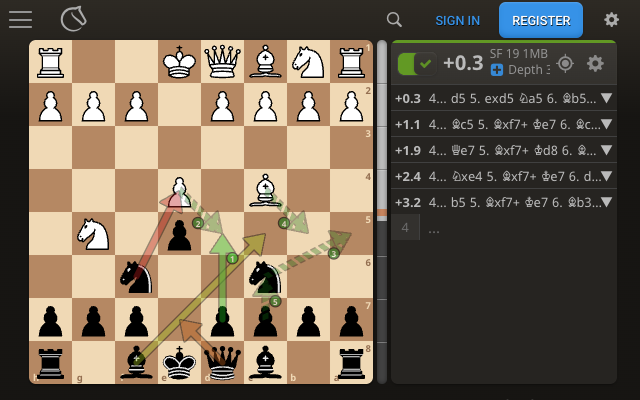
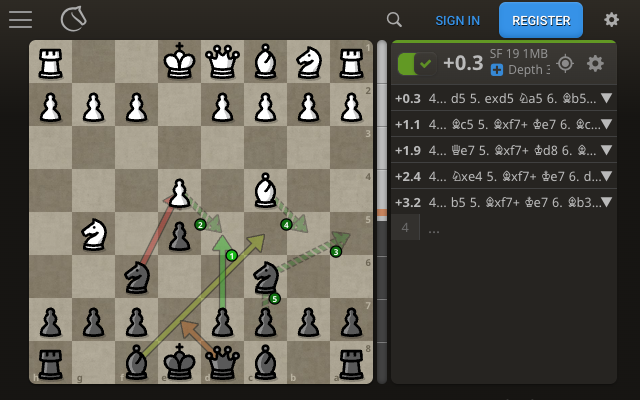
Retake the screenshots on the olive board, and show the newer features
The screenshots scripts/shoot.js takes, which the README shows, dated from
1.8.1: arrows drawn over the pieces, no played move, and lichess's default
brown board and cburnett pieces. They are retaken on 1.11.1's defaults, on the
olive board and caliente pieces the live-board store screenshots use. The
script sets both through the same preference endpoints lichess's settings
menu posts to, and stops if a page comes up without them; --board and
--pieces take other names.

Two shots are new. played-move loads the spread position as a game in which
4...Nxe4 was played with 4...d5 as a side line, so the played move is drawn
solid in place of its engine arrow. picked-line presses 3 in the same
position, so that line is drawn on its own in its own colour. The script can
now load a game at a given ply, press keys, and wait for a selector before
the picture is taken.

The fallback that runs src/ in the page now adds src/content.css as well.
Without it the picked row was never marked in the panel.

The README shows the two new shots in the shortcut and played-move sections,
says the options page covers more than colours and opacity, and lists the
screenshot commands. The store listing no longer calls the script's shots
outdated and lists the new ones.

diff --git a/scripts/shoot.js b/scripts/shoot.js
@@ -3,14 +3,19 @@
 // lichess board. Launches Chrome, drives it over the DevTools protocol, and
 // writes PNGs into store/screenshots/.
 //
-//   node scripts/shoot.js [--width 1280] [--height 800]
+//   node scripts/shoot.js [--width 1280] [--height 800] [--board olive] [--pieces caliente]
+//
+// The board and pieces are lichess's olive and caliente rather than its
+// default brown and cburnett, to match the screenshots taken on a live board.
+// They are set through the same preference endpoints lichess's own settings
+// menu posts to, and the script stops if a page comes up without them.
 //
 // Chrome 153 refuses --load-extension even with the guard feature switched
 // off, so the script checks whether the packaged extension injected and, if it
-// did not, runs src/logic.js and src/content.js in the page instead. That is
-// the same code the extension ships, with the same default settings, so the
-// picture matches what an installed copy draws. The script says which path it
-// took.
+// did not, runs src/logic.js and src/content.js in the page instead, with
+// src/content.css added as a stylesheet. That is the same code the extension
+// ships, with the same default settings, so the picture matches what an
+// installed copy draws. The script says which path it took.
 
 const { spawn } = require('node:child_process');
 const fs = require('node:fs');
@@ -24,17 +29,24 @@ const PORT = 9333;
 
 const arg = (name, fallback) => {
   const i = process.argv.indexOf(`--${name}`);
-  return i > -1 ? Number(process.argv[i + 1]) : fallback;
+  return i > -1 ? process.argv[i + 1] : fallback;
 };
-const WIDTH = arg('width', 1280);
-const HEIGHT = arg('height', 800);
+const WIDTH = Number(arg('width', 1280));
+const HEIGHT = Number(arg('height', 800));
+const BOARD = arg('board', 'olive');
+const PIECES = arg('pieces', 'caliente');
 
 const LINES = 5;
 
+const SPREAD = 'r1bqkb1r/pppp1ppp/2n2n2/4p1N1/2B1P3/8/PPPP1PPP/RNBQK2R b KQkq - 5 4';
+
+// A shot is a position, given as a FEN or as a game with the ply to stop at,
+// and optionally keys to press once the extension has coloured the board and
+// a selector that must then match before the picture is taken.
 const SHOTS = [
   {
     name: 'arrows-spread',
-    fen: 'r1bqkb1r/pppp1ppp/2n2n2/4p1N1/2B1P3/8/PPPP1PPP/RNBQK2R b KQkq - 5 4',
+    fen: SPREAD,
     note: 'moves differ a lot, so the colours spread green to red',
   },
   {
@@ -42,7 +54,28 @@ const SHOTS = [
     fen: 'rnbqkbnr/pppppppp/8/8/8/8/PPPPPPPP/RNBQKBNR w KQkq - 0 1',
     note: 'every move about equal, so nothing turns red',
   },
+  {
+    name: 'played-move',
+    // The spread position again, reached as a game with the engine's choice
+    // as a side line, so the tree branches after 4.Ng5 and 4...Nxe4, one of
+    // the engine's weaker lines, is the move that was played.
+    pgn: '1. e4 e5 2. Nf3 Nc6 3. Bc4 Nf6 4. Ng5 Nxe4 (4... d5)',
+    ply: 7,
+    expect: 'g[data-lac-played]',
+    note: 'the move played, ...Nxe4, as a solid black arrow in place of its engine arrow',
+  },
+  {
+    name: 'picked-line',
+    fen: SPREAD,
+    keys: ['3'],
+    expect: '.pv_box .pv[data-lac-picked]',
+    note: 'line 3 picked with its key, alone on the board in its own colour',
+  },
 ];
+
+const shotUrl = shot => shot.pgn
+  ? `https://lichess.org/analysis/pgn/${encodeURIComponent(shot.pgn)}#${shot.ply}`
+  : 'https://lichess.org/analysis/standard/' + shot.fen.replace(/ /g, '_');
 
 const sleep = ms => new Promise(r => setTimeout(r, ms));
 
@@ -64,6 +97,14 @@ async function cdp(ws, method, params = {}, sessionId) {
 const evaluate = (ws, session, expression) =>
   cdp(ws, 'Runtime.evaluate', { expression, awaitPromise: true, returnByValue: true }, session)
     .then(r => (r.exceptionDetails ? Promise.reject(new Error(r.exceptionDetails.text)) : r.result.value));
+
+// A key pressed as a keyboard would, so it reaches the page's own listeners.
+async function press(ws, key) {
+  const code = /^\d$/.test(key) ? `Digit${key}` : key;
+  const vk = key.length === 1 ? key.toUpperCase().charCodeAt(0) : 0;
+  await cdp(ws, 'Input.dispatchKeyEvent', { type: 'keyDown', key, code, text: key, windowsVirtualKeyCode: vk });
+  await cdp(ws, 'Input.dispatchKeyEvent', { type: 'keyUp', key, code, windowsVirtualKeyCode: vk });
+}
 
 async function main() {
   fs.mkdirSync(OUT, { recursive: true });
@@ -116,11 +157,32 @@ async function main() {
   const version = await cdp(ws, 'Browser.getVersion');
   console.log('chrome:', version.product);
 
+  // Board and pieces are account preferences, which lichess keeps in the
+  // session cookie when nobody is signed in. Post them the way its settings
+  // menu does, from a lichess page so the cookie is set.
+  await cdp(ws, 'Page.navigate', { url: 'https://lichess.org/analysis' });
+  await sleep(3000);
+  const prefs = await evaluate(ws, undefined, `(async () => {
+    const post = (url, body) => fetch(url, {
+      method: 'POST',
+      body: new URLSearchParams(body),
+      headers: { 'X-Requested-With': 'XMLHttpRequest' },
+    }).then(r => r.status);
+    return [await post('/pref/theme', { theme: ${JSON.stringify(BOARD)} }),
+      await post('/pref/pieceSet', { pieceSet: ${JSON.stringify(PIECES)} })];
+  })()`);
+  if (prefs.some(s => s !== 200)) throw new Error(`lichess refused the board or pieces (${prefs.join(', ')})`);
+  console.log(`board: ${BOARD}, pieces: ${PIECES}`);
+
   const written = [];
   for (const shot of SHOTS) {
-    const url = 'https://lichess.org/analysis/standard/' + shot.fen.replace(/ /g, '_');
-    await cdp(ws, 'Page.navigate', { url });
+    await cdp(ws, 'Page.navigate', { url: shotUrl(shot) });
     await sleep(6000);
+
+    const look = await evaluate(ws, undefined, `[document.body.dataset.board, document.body.dataset.pieceSet]`);
+    if (look[0] !== BOARD || look[1] !== PIECES) {
+      throw new Error(`${shot.name} came up with ${look.join(' and ')}, not ${BOARD} and ${PIECES}`);
+    }
 
     // Turn the engine on if the stored preference did not do it.
     await evaluate(ws, undefined, `(() => {
@@ -149,6 +211,12 @@ async function main() {
         console.warn('! packaged extension did not inject; running src/ directly');
         main.warned = true;
       }
+      const css = fs.readFileSync(path.join(ROOT, 'src/content.css'), 'utf8');
+      await evaluate(ws, undefined, `(() => {
+        const style = document.createElement('style');
+        style.textContent = ${JSON.stringify(css)};
+        document.head.appendChild(style);
+      })()`);
       for (const f of ['src/logic.js', 'src/content.js']) {
         await evaluate(ws, undefined, fs.readFileSync(path.join(ROOT, f), 'utf8'));
       }
@@ -158,6 +226,17 @@ async function main() {
     }
     if (!coloured) throw new Error(`no coloured arrows for ${shot.name} (${arrows} arrows drawn)`);
     await sleep(1200);
+
+    for (const key of shot.keys || []) await press(ws, key);
+    if (shot.expect) {
+      let found = false;
+      for (let i = 0; i < 20 && !found; i++) {
+        found = await evaluate(ws, undefined, `!!document.querySelector(${JSON.stringify(shot.expect)})`);
+        if (!found) await sleep(250);
+      }
+      if (!found) throw new Error(`${shot.name}: nothing matched ${shot.expect}`);
+      await sleep(800);
+    }
 
     const { data } = await cdp(ws, 'Page.captureScreenshot', { format: 'png', captureBeyondViewport: false });
     const file = path.join(OUT, `${shot.name}-${WIDTH}x${HEIGHT}.png`);

diff --git a/README.md b/README.md
@@ -8,7 +8,8 @@ from the alternatives at a glance.
 
 Black to move. The engine's best move is green, and the arrows shade through
 yellow and orange to red as the moves get worse. The striped green arrows are
-the rest of the best line, which lichess does not draw at all.
+the rest of the best line, which lichess does not draw at all, numbered in the
+order they are played. Every arrow is drawn behind the pieces.
 
 Lichess draws the best line in pale blue and every other multi-PV line in the
 same pale grey, so with 3 to 5 lines enabled you cannot tell which grey arrow
@@ -134,6 +135,12 @@ the moves after it striped and numbered, in the line's own colour. The row is
 marked in the panel. Press the same number again, or **Escape**, to let it go,
 and the board goes back to all its arrows.
 
+![Engine line 3 picked with the 3 key, drawn on its own in orange](store/screenshots/picked-line-1280x800.png)
+
+Line 3 picked in the position from the top of this page: 4...Qe7 and the four
+moves after it, numbered 1 to 5 in the line's own orange, with its row marked
+in the panel.
+
 **Space** plays the picked line's first move, through the same code lichess
 runs when a line is clicked, so the move lands in the game exactly as a click
 would put it. With no line picked, Space is left to lichess, where it plays
@@ -160,6 +167,13 @@ so a black arrow still shows on a dark square. Lichess's faint arrow goes. If
 the played move is one of the engine's other lines, its engine arrow gives way
 to the played one too, so a white or black arrow always means the move that
 was played; how good it was is still in the panel.
+
+![The move played, 4...Nxe4, as a solid black arrow among the engine's arrows](store/screenshots/played-move-1280x800.png)
+
+The position from the top of this page, loaded as a game in which Black played
+4...Nxe4, with the engine's choice, 4...d5, as a side line. The black arrow is
+the move played. It is also the engine's fourth line, whose red arrow gives
+way to it, while 4...d5 and the rest of its line are still green and numbered.
 
 Where the engine agrees with the move that was played, its green arrow already
 says so and nothing is added. Positions where the game does not branch, and
@@ -213,8 +227,9 @@ left as lichess shows them. It can be turned off on the options page.
 4. Open any lichess analysis board, turn the engine on, and set
    **Multiple lines** to 2 or more in the engine settings (gear icon).
 
-Colours and opacity can be changed from the extension's options page
-(right-click the extension icon, then **Options**). Changes apply live.
+Colours, widths, the outline and opacity are set on the extension's options
+page (right-click the extension icon, then **Options**), where most of the
+features above can also be switched off. Changes apply live.
 
 The extension collects no data. See [PRIVACY.md](PRIVACY.md).
 
@@ -394,7 +409,16 @@ The extension collects no data. See [PRIVACY.md](PRIVACY.md).
 ```bash
 npm test          # unit tests for the pure ranking logic (node --test)
 npm run icons     # regenerate icons/*.png
+node scripts/shoot.js                           # retake the 1280x800 screenshots
+node scripts/shoot.js --width 640 --height 400  # and the 640x400 ones
 ```
 
 `src/logic.js` is dependency-free and runs both in the browser and under Node.
 `src/content.js` holds the DOM glue. Nothing needs building.
+
+The screenshots in this README come from `scripts/shoot.js`, which opens real
+lichess analysis boards in headless Chrome, waits for the engine and presses
+the keys a shot needs. It sets lichess's olive board and caliente pieces first,
+the ones the store screenshots were taken with; `--board` and `--pieces` take
+any other lichess name for either. [STORE_LISTING.md](STORE_LISTING.md) says
+which screenshots to upload.

diff --git a/STORE_LISTING.md b/STORE_LISTING.md
@@ -154,29 +154,31 @@ draws it, on a live broadcast game:
 They were taken on a real lichess board with the extension installed, then
 cropped to 16:10 around the round list and the board and scaled to 640x400.
 
-The older screenshots, made by `scripts/shoot.js`, predate 1.10.0: their
-arrows are drawn over the pieces and they have no played move. The README
-still uses the 1280x800 pair.
+The others, made by `scripts/shoot.js`, show 1.11.1 with its default settings
+on the same olive board and caliente pieces. The README uses the 1280x800 set.
 
 | File | Size | Shows |
 |------|------|-------|
 | `arrows-spread-640x400.png` | 640x400 | Moves of clearly different quality, so the arrows run green to red |
 | `arrows-equal-640x400.png` | 640x400 | A position where every move is about equal, so nothing turns red |
-| `arrows-spread-1280x800.png` | 1280x800 | The same spread, with more of the page |
-| `arrows-equal-1280x800.png` | 1280x800 | The same equal position, with more of the page |
+| `played-move-640x400.png` | 640x400 | The spread position as a game in which ...Nxe4 was played: a solid black arrow in place of its engine arrow |
+| `picked-line-640x400.png` | 640x400 | The spread position with line 3 picked by its key: that line alone, numbered 1 to 5 in its own colour |
+| `*-1280x800.png` | 1280x800 | The same four, with more of the page |
 
 Don't mix sizes in one upload.
 
-Regenerate the older ones with:
+Regenerate them with:
 
 ```bash
 node scripts/shoot.js                      # 1280x800
 node scripts/shoot.js --width 640 --height 400
 ```
 
-That script launches Chrome, opens a real lichess analysis board, waits for the
-engine, and captures the page. Chrome 153 refuses to load an unpacked extension
-from the command line, so the script runs `src/logic.js` and `src/content.js` in
-the page instead. It is the same code the extension ships, with the same default
-settings, so the picture matches what an installed copy draws. The script prints
-which path it took.
+That script launches Chrome, sets lichess's olive board and caliente pieces,
+opens real lichess analysis boards, waits for the engine, presses any keys the
+shot needs, and captures the page. `--board` and `--pieces` take other lichess
+names. Chrome 153 refuses to load an unpacked extension from the command line,
+so the script runs `src/logic.js` and `src/content.js` in the page instead,
+with `src/content.css` as a stylesheet. It is the same code the extension
+ships, with the same default settings, so the picture matches what an
+installed copy draws. The script prints which path it took.
